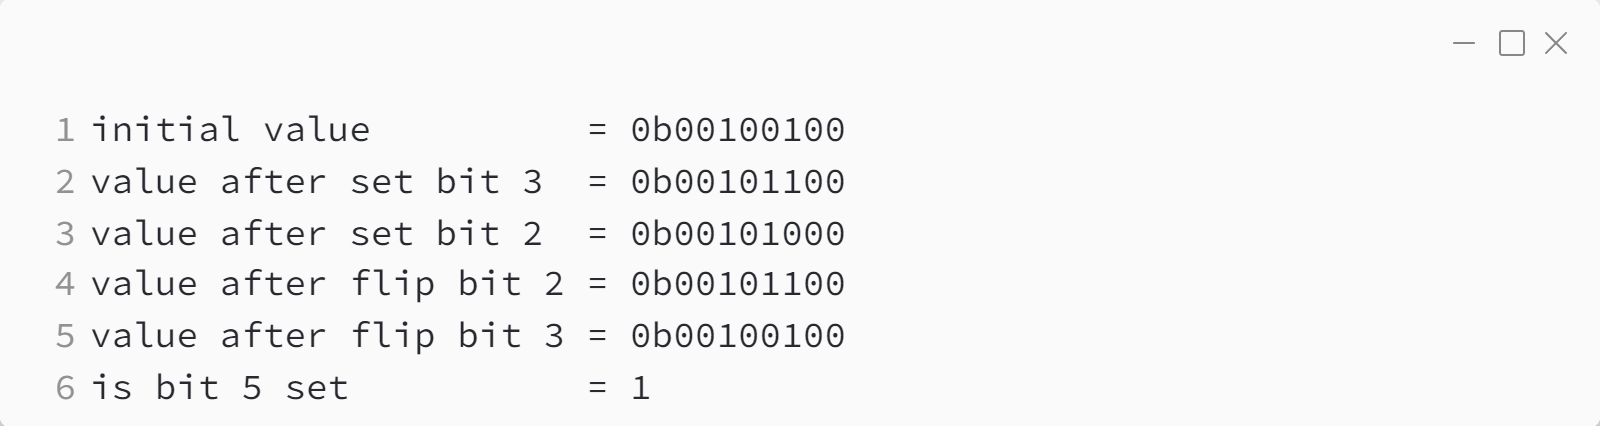
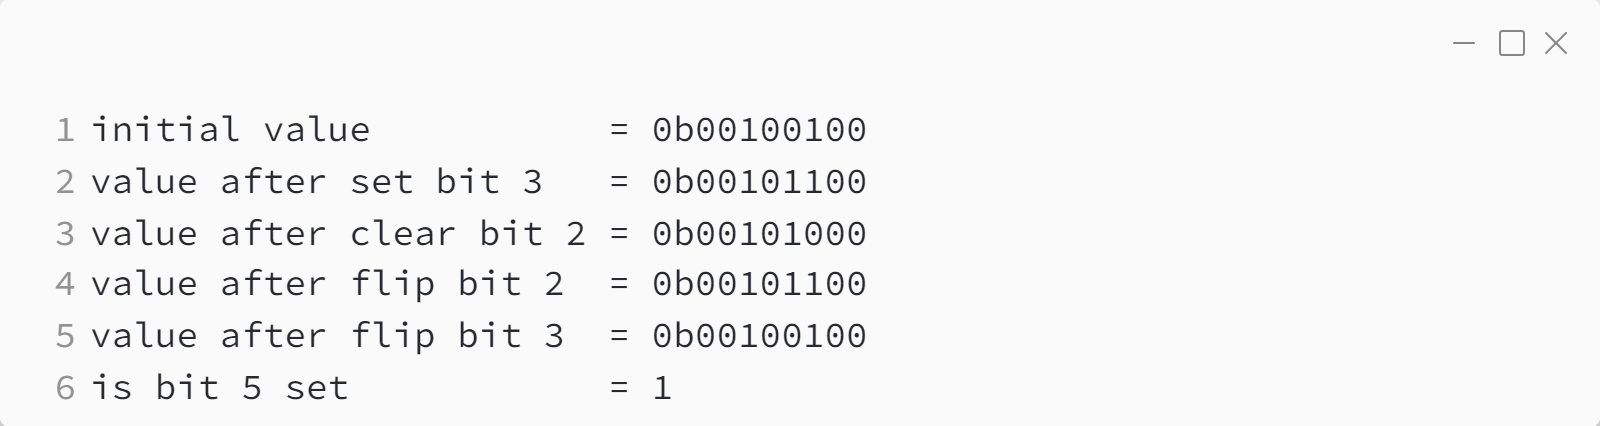
fix typos in practice0

diff --git a/0_intro/practice/src/swap_variables.c b/0_intro/practice/src/swap_variables.c
@@ -6,14 +6,14 @@
 void swap_add_sub(int* x, int* y) {
 
     *x = *x + *y; // x = x + y
-    *y = *x - *y; // y = x - (x + y) = x - x + y = y
-    *x = *x - *y; // x = x + y - y = x
+    *y = *x - *y; // y = (x + y) - y = x
+    *x = *x - *y; // x = x + y - x = y
 }
 
 void swap_xor(int* x, int* y) {
     *x = *x ^ *y; // x = x ^ y
-    *y = *x ^ *y; // y = x ^ x ^ y = y
-    *x = *x ^ *y; // x = x ^ y ^ y = y
+    *y = *x ^ *y; // y = (x ^ y) ^ y = x
+    *x = *x ^ *y; // x = (x ^ y) ^ x = y
 }
 
 void swap_xor_array(void* x, void* y, int bytelen) {
@@ -23,8 +23,8 @@ void swap_xor_array(void* x, void* y, int bytelen) {
 
     for (size_t i = 0; i < bytelen; i++) {
         p_x[i] = p_x[i] ^ p_y[i]; // x = x ^ y
-        p_y[i] = p_x[i] ^ p_y[i]; // y = x ^ x ^ y = y
-        p_x[i] = p_x[i] ^ p_y[i]; // x = x ^ y ^ y = y
+        p_y[i] = p_x[i] ^ p_y[i]; // y = (x ^ y) ^ y = x
+        p_x[i] = p_x[i] ^ p_y[i]; // x = (x ^ y) ^ x = y
     }
 
 }

diff --git a/0_intro/practice/src/bitop_oneline.c b/0_intro/practice/src/bitop_oneline.c
@@ -44,7 +44,7 @@ int main() {
     print_bits_hi_to_lo(value);
 
     value = clear_bit(value, bit2);
-    printf("value after set bit %d  = ", bit2);
+    printf("value after clear bit %d  = ", bit2);
     print_bits_hi_to_lo(value);
 
     value = flip_bit(value, bit2);

diff --git a/0_intro/practice/md/2.md b/0_intro/practice/md/2.md
@@ -26,7 +26,7 @@ _Практика 0. Трансляция, переменные, типы дан
 
 Приведённый ниже код сложен для понимания. Это вызвано тем, что числа с плавающей точкой сильно отлитчаются по своей структуре от целочисленных чисел. Операции с числами с плавающей точкой в современных процессорах выполняются отдельным прифметическим устройством, и на практике приведённый ниже пример работы с числами с плавающей точкой не используется. Данный пример направлен на демонстрайцию разницы хранения целочисленных и нецелочисленных типов данных в памяти.
 
-> В этом коде используется `union` - этот механизм языка Си  удобно обращаться к отдельным битам в памяти. Аналогичное обращение к отдельным битам может быть реализовано с помощью битовых операций. О битовых операциях будет рассказано далее.
+> В этом коде используется `union` - этот механизм языка Си позволяющий удобно обращаться к отдельным битам в памяти. Аналогичное обращение к отдельным битам может быть реализовано с помощью битовых операций. О битовых операциях будет рассказано далее.
 
 ![](images/int_and_float_code.png)
 
